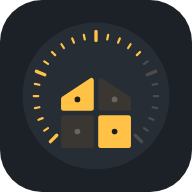
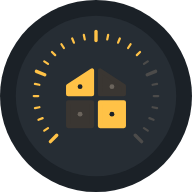
v4.2.0 : icône ronde transparente + maskable zone sûre, glisser/clic extérieur pour fermer, plein écran sans scroll, ouverture dans la même fenêtre, liens Tricount à tester
Claude-Session: https://claude.ai/code/session_01UzEPtZNZEKVBjzia6zzU1u

diff --git a/index.html b/index.html
@@ -28,18 +28,21 @@
   --shadow:0 4px 10px rgba(20,35,40,.12); --scrim:rgba(20,30,35,.45);
 }
 *{box-sizing:border-box;-webkit-tap-highlight-color:transparent}
-html{background:var(--bg);transition:background .3s}
-body{margin:0;min-height:100dvh;color:var(--fg);font:400 16px/1.5 var(--f-body);overflow-x:hidden;user-select:none;-webkit-user-select:none}
+html{background:var(--bg);transition:background .3s;height:100%;overflow:hidden;overscroll-behavior:none}
+body{margin:0;height:100%;position:fixed;inset:0;width:100%;overflow:hidden;overscroll-behavior:none;color:var(--fg);font:400 16px/1.5 var(--f-body);user-select:none;-webkit-user-select:none}
 button,input,select{font:inherit;color:inherit}
 input,select{user-select:text;-webkit-user-select:text}
 :focus-visible{outline:3px solid var(--ring);outline-offset:3px}
 svg.i{width:24px;height:24px;fill:none;stroke:currentColor;stroke-width:2;stroke-linecap:round;stroke-linejoin:round;flex:none}
-.app{max-width:1180px;margin:0 auto;min-height:100dvh;display:flex;flex-direction:column;
+.app{max-width:1180px;margin:0 auto;height:100%;min-height:0;overflow:hidden;display:flex;flex-direction:column;
   padding:max(18px,env(safe-area-inset-top)) max(20px,env(safe-area-inset-right)) max(20px,env(safe-area-inset-bottom)) max(20px,env(safe-area-inset-left))}
 header{display:flex;align-items:flex-end;gap:8px;padding-top:8px}
 header .ttl{flex:1}
 header small{display:block;color:var(--muted);font-size:14px;font-weight:600}
 header h1{margin:2px 0 0;font:700 28px/1.15 var(--f-head)}
+header .ttl{min-width:0}
+header small{white-space:nowrap;overflow:hidden;text-overflow:ellipsis}
+@media (max-width:420px){header h1{font-size:23px}header small{font-size:13px}header{gap:6px}.ibtn{min-width:44px;height:44px;padding:0 9px}}
 .ibtn{min-width:48px;height:48px;padding:0 12px;flex:none;display:inline-flex;align-items:center;justify-content:center;gap:6px;border-radius:var(--r-sm);cursor:pointer;
   background:var(--card);border:1px solid var(--border);color:var(--fg);font-weight:700;transition:transform .1s ease-out}
 .ibtn:active{transform:scale(.94)}
@@ -48,7 +51,7 @@ header h1{margin:2px 0 0;font:700 28px/1.15 var(--f-head)}
 .hint{color:var(--muted);font-size:14px;margin:10px 0 0;text-align:center}
 
 /* ═════ Plateau ═════ */
-.stage{flex:1;display:flex;flex-direction:column;justify-content:center;gap:44px;padding:28px 0;touch-action:pan-y}
+.stage{flex:1;min-height:0;overflow:hidden;display:flex;flex-direction:column;justify-content:center;gap:var(--sg,44px);padding:var(--sp,28px) 0;touch-action:none}
 .stage h2{margin:0 0 18px;font:700 13px/1 var(--f-body);letter-spacing:.08em;text-transform:uppercase;color:var(--muted);text-align:center}
 .grid{display:grid;justify-content:center;gap:var(--g)}
 .slot{width:var(--s);display:flex;flex-direction:column;align-items:center;text-decoration:none;color:inherit;cursor:pointer;border-radius:16px;-webkit-touch-callout:none}
@@ -81,6 +84,9 @@ dialog{border:none;padding:0;background:transparent;color:inherit;width:min(560p
 dialog::backdrop{background:var(--scrim)}
 dialog[open]{animation:dlg 300ms var(--out)}
 @keyframes dlg{from{opacity:0;transform:translateY(24px)}}
+.grab{width:44px;height:5px;border-radius:3px;background:var(--border);margin:-6px auto 12px;flex:none}
+.sheet.drag{transition:none}
+
 .sheet{background:var(--card);border:1px solid var(--border);border-radius:var(--r-lg);box-shadow:0 24px 48px -12px rgba(0,0,0,.35);padding:20px;max-height:calc(100dvh - 24px);overflow:auto}
 .sheet h3{margin:0;font:700 22px/1.2 var(--f-head)}
 .sheet h4{margin:24px 0 8px;font:600 16px/1.3 var(--f-head);display:flex;align-items:center;gap:8px}
@@ -219,7 +225,6 @@ fieldset.card legend{font:600 15px var(--f-head);padding:0 6px;display:flex;alig
   <label class="chk"><input type="checkbox" id="sFx"><span>Garder les effets même si le téléphone demande moins d'animations</span></label>
   <label class="chk"><input type="checkbox" id="sCalm"><span>Couper tous les effets</span></label>
   <p class="small" id="fxInfo"></p>
-  <label class="chk"><input type="checkbox" id="sTab"><span>Sur PC, ouvrir dans un nouvel onglet</span></label>
   <label class="f"><span>Appareil</span><select class="in" id="sPlat"><option value="auto">Détection automatique</option><option value="android">Toujours Android</option><option value="pc">Toujours PC</option></select></label>
 
   <h4><svg class="i" aria-hidden="true"><use href="#download"/></svg>Sauvegarde des applis</h4>
@@ -246,7 +251,7 @@ fieldset.card legend{font:600 15px var(--f-head);padding:0 6px;display:flex;alig
 <script src="qrcode.js"></script>
 <script>
 "use strict";
-const VERSION = "4.1.0";
+const VERSION = "4.2.0";
 
 const LS = {
   get(k){ try { return localStorage.getItem(k); } catch(e){ return null; } },
@@ -288,7 +293,7 @@ const DEFAULT_TILES = () => [
 
 let cfg = LS.json(K.cfg, null);
 if (!cfg || !Array.isArray(cfg.tiles)) cfg = { v:5, tiles:DEFAULT_TILES(), favs:["budget","ha","jungle"], prefs:{} };
-cfg.prefs = Object.assign({ theme:"auto", amb:"petrole", big:2, tilt:true, fx:false, calm:false, newTab:true, plat:"auto", name:"" }, cfg.prefs || {});
+cfg.prefs = Object.assign({ theme:"auto", amb:"petrole", big:2, tilt:true, fx:false, calm:false, plat:"auto", name:"" }, cfg.prefs || {});
 cfg.favs = (cfg.favs || []).filter(id => cfg.tiles.some(t => t.id === id));
 /* Migration v1 → v2 : émojis → pictos, anciennes couleurs → palette contrastée, lien direct Tricount */
 if ((cfg.v || 1) < 2){
@@ -363,7 +368,7 @@ function target(t){
   }
   const p = t.pc || {};
   if (p.mode === "hide") return { off:true };
-  return p.url ? { href:p.url, blank:cfg.prefs.newTab, sub:"Web" } : { todo:true };
+  return p.url ? { href:p.url, sub:"Web" } : { todo:true };
 }
 
 /* ═════ Thème et fond ═════ */
@@ -399,7 +404,7 @@ function slotHtml(t){
   const tg = target(t), isFav = cfg.favs.includes(t.id), cls = ["slot"];
   if (tg.todo) cls.push("todo");
   if (tg.off || t.hidden) cls.push("off");
-  const href = !editing && tg.href ? ` href="${esc(tg.href)}"${tg.blank ? ' target="_blank" rel="noopener"' : ""}` : "";
+  const href = !editing && tg.href ? ` href="${esc(tg.href)}"` : "";
   const sub = tg.todo ? "À régler" : (editing && (tg.off || t.hidden) ? "Masquée" : "");
   const badge = `<span class="badge${isFav ? " on" : ""}" data-star role="button" tabindex="0" aria-pressed="${isFav}" aria-label="${isFav ? "Retirer " : "Mettre "}${esc(t.name)}${isFav ? " de la tête" : " en tête"}">${svg("star")}</span>`;
   return `<a class="${cls.join(" ")}" data-id="${esc(t.id)}"${href} ${href ? "" : 'role="button" tabindex="0"'} aria-label="${esc(t.name)}${tg.todo ? ", à régler" : ""}" draggable="false">`
@@ -429,14 +434,21 @@ function render(){
   size();
 }
 function size(){
-  const W = $("#stage").clientWidth, phone = W < 700, n = Math.max(1, nBig), m = $("#oth").children.length;
+  const st = $("#stage"), W = st.clientWidth, H = st.clientHeight, phone = W < 700, n = Math.max(1, nBig), m = $("#oth").children.length;
   const cols = phone ? (n <= 3 ? n : n === 4 ? 2 : 3) : Math.min(n, 6), g = phone ? 22 : 40;
-  const s = Math.floor(Math.min((W - g * (cols - 1)) / cols, phone ? 172 : 196));
+  const rows = Math.ceil(n / cols), ocols = Math.max(1, Math.min(m, phone ? 4 : 8)), orows = m ? Math.ceil(m / ocols) : 0;
+  let s = Math.floor(Math.min((W - g * (cols - 1)) / cols, phone ? 172 : 196)), so = phone ? 64 : 80, sg = 44, sp = 28;
+  const need = () => rows * (s * 1.09 + 6 + 26) + (rows - 1) * g
+    + (orows ? sg + 31 + orows * (so * 1.09 + 6 + 20) + (orows - 1) * (phone ? 18 : 30) : 0) + sp * 2;
+  while (need() > H && (s > 56 || so > 44)) {       // tout doit tenir à l'écran, sans défilement
+    if (sp > 10) sp -= 2; else if (sg > 18) sg -= 2; else if (s > 56) s -= 2; else so -= 2;
+  }
+  st.style.setProperty("--sg", sg + "px"); st.style.setProperty("--sp", sp + "px");
   const f = $("#favs").style; f.setProperty("--s", s + "px"); f.setProperty("--g", `${g}px`); f.setProperty("--f", (s > 130 ? 17 : 14) + "px");
   f.gridTemplateColumns = `repeat(${cols}, ${s}px)`;
-  const o = $("#oth").style, so = phone ? 64 : 80;
+  const o = $("#oth").style;
   o.setProperty("--s", so + "px"); o.setProperty("--g", phone ? "22px 18px" : "30px"); o.setProperty("--f", "12.5px");
-  o.gridTemplateColumns = `repeat(${Math.max(1, Math.min(m, phone ? 4 : 8))}, ${so}px)`;
+  o.gridTemplateColumns = `repeat(${ocols}, ${so}px)`;
   icons = [...document.querySelectorAll("#stage .slot")].map(el => {
     const r = el.querySelector(".ibox").getBoundingClientRect();
     return { el, id:el.dataset.id, obj:el.querySelector(".obj"), sh:el.querySelector(".sh"), cx:r.left + r.width / 2 + scrollX, cy:r.top + r.height / 2 + scrollY, s:r.width, v:[0, 0, 0, 0, 0], f:0 };
@@ -484,7 +496,7 @@ function activate(id){
   const tg = target(tile);
   if (tg.todo){ openTile(id); toast("Indique ce que cette appli doit ouvrir sur cet appareil"); return; }
   countUse(id); if (navigator.vibrate) navigator.vibrate(8);
-  if (tg.blank) window.open(tg.href, "_blank", "noopener"); else location.href = tg.href;
+  location.href = tg.href;
 }
 const stage = $("#stage");
 let handledAt = 0, longT = 0, longFired = false, sx = 0, sy = 0;
@@ -725,14 +737,55 @@ function openSet(){
   $("#fxInfo").textContent = (reduced.matches ? "Ton téléphone demande moins d'animations. " : "")
     + (!isAndroid() ? "Inclinaison : seulement sur Android." : tiltOn ? (gyroN ? "Inclinaison : capteur actif." : "Inclinaison : aucun signal du capteur pour l'instant.") : "Inclinaison : coupée.");
   $("#sTheme").value = cfg.prefs.theme;
-  $("#sTilt").checked = !!cfg.prefs.tilt; $("#sCalm").checked = !!cfg.prefs.calm; $("#sTab").checked = !!cfg.prefs.newTab;
+  $("#sTilt").checked = !!cfg.prefs.tilt; $("#sCalm").checked = !!cfg.prefs.calm;
   $("#sPlat").value = cfg.prefs.plat; $("#qrOut").innerHTML = ""; $("#ver").textContent = VERSION;
   patState(); dSet.showModal();
 }
 dSet.addEventListener("click", e => { if (e.target.closest("[data-close]")) dSet.close(); });
+
+/* ═════ Fenêtres : se ferment en les glissant vers le bas, ou en touchant à l'extérieur ═════ */
+document.querySelectorAll("dialog").forEach(dlg => {
+  const sh = dlg.querySelector(".sheet"); if (!sh) return;
+  const g = document.createElement("div"); g.className = "grab"; g.setAttribute("aria-hidden", "true"); sh.prepend(g);
+  let downOnBackdrop = false, noClickUntil = 0;
+  dlg.addEventListener("pointerdown", e => { downOnBackdrop = e.target === dlg; });
+  dlg.addEventListener("click", e => { if (e.target === dlg && downOnBackdrop && Date.now() > noClickUntil) dlg.close(); });
+  let S = null;
+  const scrim = a => dlg.style.setProperty("--scrim", `rgba(20,30,35,${a.toFixed(3)})`);
+  sh.addEventListener("touchstart", e => {
+    if (e.touches.length !== 1 || sh.scrollTop > 0) { S = null; return; }
+    S = { y0:e.touches[0].clientY, act:false, dy:0, last:e.touches[0].clientY, t:performance.now(), vy:0 };
+  }, { passive:true });
+  sh.addEventListener("touchmove", e => {
+    if (!S) return;
+    const y = e.touches[0].clientY, dy = y - S.y0;
+    if (!S.act) {
+      if (dy > 8 && sh.scrollTop <= 0) { S.act = true; dlg.style.animation = "none"; }
+      else { if (dy < -8 || sh.scrollTop > 0) S = null; return; }
+    }
+    const now = performance.now(); S.vy = (y - S.last) / Math.max(1, now - S.t); S.last = y; S.t = now;
+    S.dy = Math.max(0, dy - 8);
+    dlg.style.transform = `translate3d(0,${S.dy}px,0)`;
+    scrim(.45 * (1 - Math.min(1, S.dy / dlg.offsetHeight)));
+    e.preventDefault();
+  }, { passive:false });
+  const end = () => {
+    const s = S; S = null; if (!s || !s.act) return;
+    noClickUntil = Date.now() + 350;
+    const h = dlg.offsetHeight, close = s.dy > h * .3 || s.vy > .6;
+    const clean = () => { dlg.style.transform = ""; dlg.style.animation = ""; dlg.style.removeProperty("--scrim"); };
+    if (!dlg.animate) { if (close) dlg.close(); clean(); return; }
+    const a = dlg.animate([{ transform:`translate3d(0,${s.dy}px,0)` }, { transform: close ? `translate3d(0,${h}px,0)` : "translate3d(0,0,0)" }],
+      { duration: close ? 200 : 240, easing:"cubic-bezier(.3,.7,.4,1)", fill:"forwards" });
+    a.onfinish = () => { if (close) dlg.close(); a.cancel(); clean(); };
+  };
+  sh.addEventListener("touchend", end); sh.addEventListener("touchcancel", end);
+  dlg.addEventListener("close", () => { dlg.style.transform = ""; dlg.style.animation = ""; dlg.style.removeProperty("--scrim"); });
+});
+
 $("#sShow").addEventListener("change", e => { $("#sPat").type = e.target.checked ? "text" : "password"; });
 $("#sName").addEventListener("input", e => { cfg.prefs.name = e.target.value; save(); render(); });
-[["#sTilt","tilt"],["#sFx","fx"],["#sCalm","calm"],["#sTab","newTab"]].forEach(([s, k]) => $(s).addEventListener("change", e => { cfg.prefs[k] = e.target.checked; save(); setTilt(); render(); kick(); }));
+[["#sTilt","tilt"],["#sFx","fx"],["#sCalm","calm"]].forEach(([s, k]) => $(s).addEventListener("change", e => { cfg.prefs[k] = e.target.checked; save(); setTilt(); render(); kick(); }));
 $("#sPlat").addEventListener("change", e => { cfg.prefs.plat = e.target.value; save(); setTilt(); render(); });
 $("#bPat").addEventListener("click", () => {
   const pat = $("#sPat").value.trim();

diff --git a/test-liens.html b/test-liens.html
@@ -17,6 +17,13 @@ small{display:block;color:#888;font-size:12px}
 <a href="https://tricount.com/link/tricounts"><b>T2</b><span>Lien tricount.com/link simple<small>Chrome peut proposer l'appli</small></span></a>
 <a href="intent://launch?id=com.tribab.tricount.android#Intent;scheme=market;package=com.android.vending;end"><b>T3</b><span>Via Play Store « launch »<small>market://launch</small></span></a>
 
+<a href="intent://#Intent;scheme=com.tribab.tricount.android;package=com.tribab.tricount.android;end"><b>T4</b><span>Schéma = nom du paquet (comme M7)<small>le motif qui a marché pour MusicCast</small></span></a>
+<a href="intent://tricount.com/#Intent;scheme=https;package=com.tribab.tricount.android;end"><b>T5</b><span>Page d'accueil tricount.com forcée vers l'appli<small>https + paquet, sans chemin</small></span></a>
+<a href="intent://tricount.com/link/new#Intent;scheme=https;package=com.tribab.tricount.android;end"><b>T6</b><span>tricount.com/link/new<small>« Nouveau tricount »</small></span></a>
+<a href="intent://tricount.com/link/join#Intent;scheme=https;package=com.tribab.tricount.android;end"><b>T7</b><span>tricount.com/link/join<small>« Rejoindre »</small></span></a>
+<a href="intent://#Intent;scheme=tricount;package=com.tribab.tricount.android;end"><b>T8</b><span>Schéma « tricount:// » (deviné)<small>avec paquet</small></span></a>
+<a href="intent://tricount.com/link/tricounts#Intent;scheme=https;package=com.tribab.tricount.android;action=android.intent.action.VIEW;category=android.intent.category.BROWSABLE;end"><b>T9</b><span>Comme T1, action VIEW explicite<small>au cas où</small></span></a>
+
 <h2>🔊 MusicCast</h2>
 <a href="intent://launch?id=com.yamaha.av.musiccastcontroller#Intent;scheme=market;package=com.android.vending;end"><b>M1</b><span>Via Play Store « launch »<small>market://launch</small></span></a>
 <a href="intent://play.google.com/store/apps/details?id=com.yamaha.av.musiccastcontroller&amp;launch=true#Intent;scheme=https;package=com.android.vending;end"><b>M2</b><span>Play Store avec launch=true<small>https + paquet Play Store</small></span></a>

diff --git a/sw.js b/sw.js
@@ -1,5 +1,5 @@
 /* Réseau d'abord (toujours revalidé : le cache HTTP de GitHub Pages dure 10 min) ; copie locale si hors ligne. */
-const C = 'maxisk-v6';
+const C = 'maxisk-v7';
 self.addEventListener('install', () => self.skipWaiting());
 self.addEventListener('activate', e => e.waitUntil(caches.keys().then(ks => Promise.all(ks.filter(k => k.startsWith('maxisk-') && k !== C).map(k => caches.delete(k)))).then(() => self.clients.claim())));
 self.addEventListener('fetch', e => {
